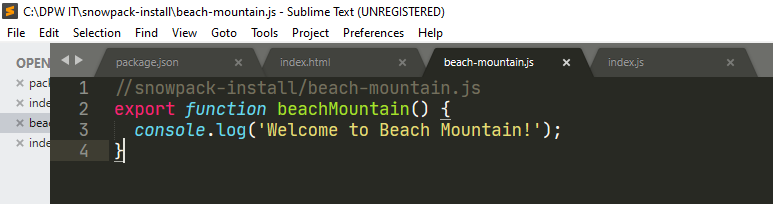
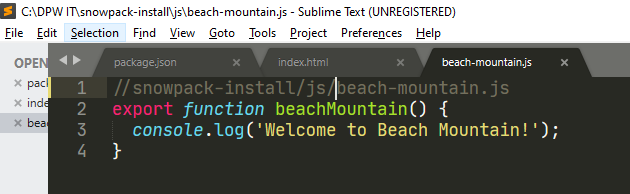
Updated folder path for js files

Changed region(s): [[0.0, 0.0, 1.0, 1.0]]

diff --git a/js/beach-mountain.js b/js/beach-mountain.js
@@ -1,4 +1,4 @@
-//snowpack-install/beach-mountain.js
+//snowpack-install/js/beach-mountain.js
 export function beachMountain() {
   console.log('Welcome to Beach Mountain!');
 }

diff --git a/js/index.js b/js/index.js
@@ -1,4 +1,4 @@
-//snowpack-install/index.js
+//snowpack-install/js/index.js
 import { beachMountain } from './js/beach-mountain.js';
 
 beachMountain();
